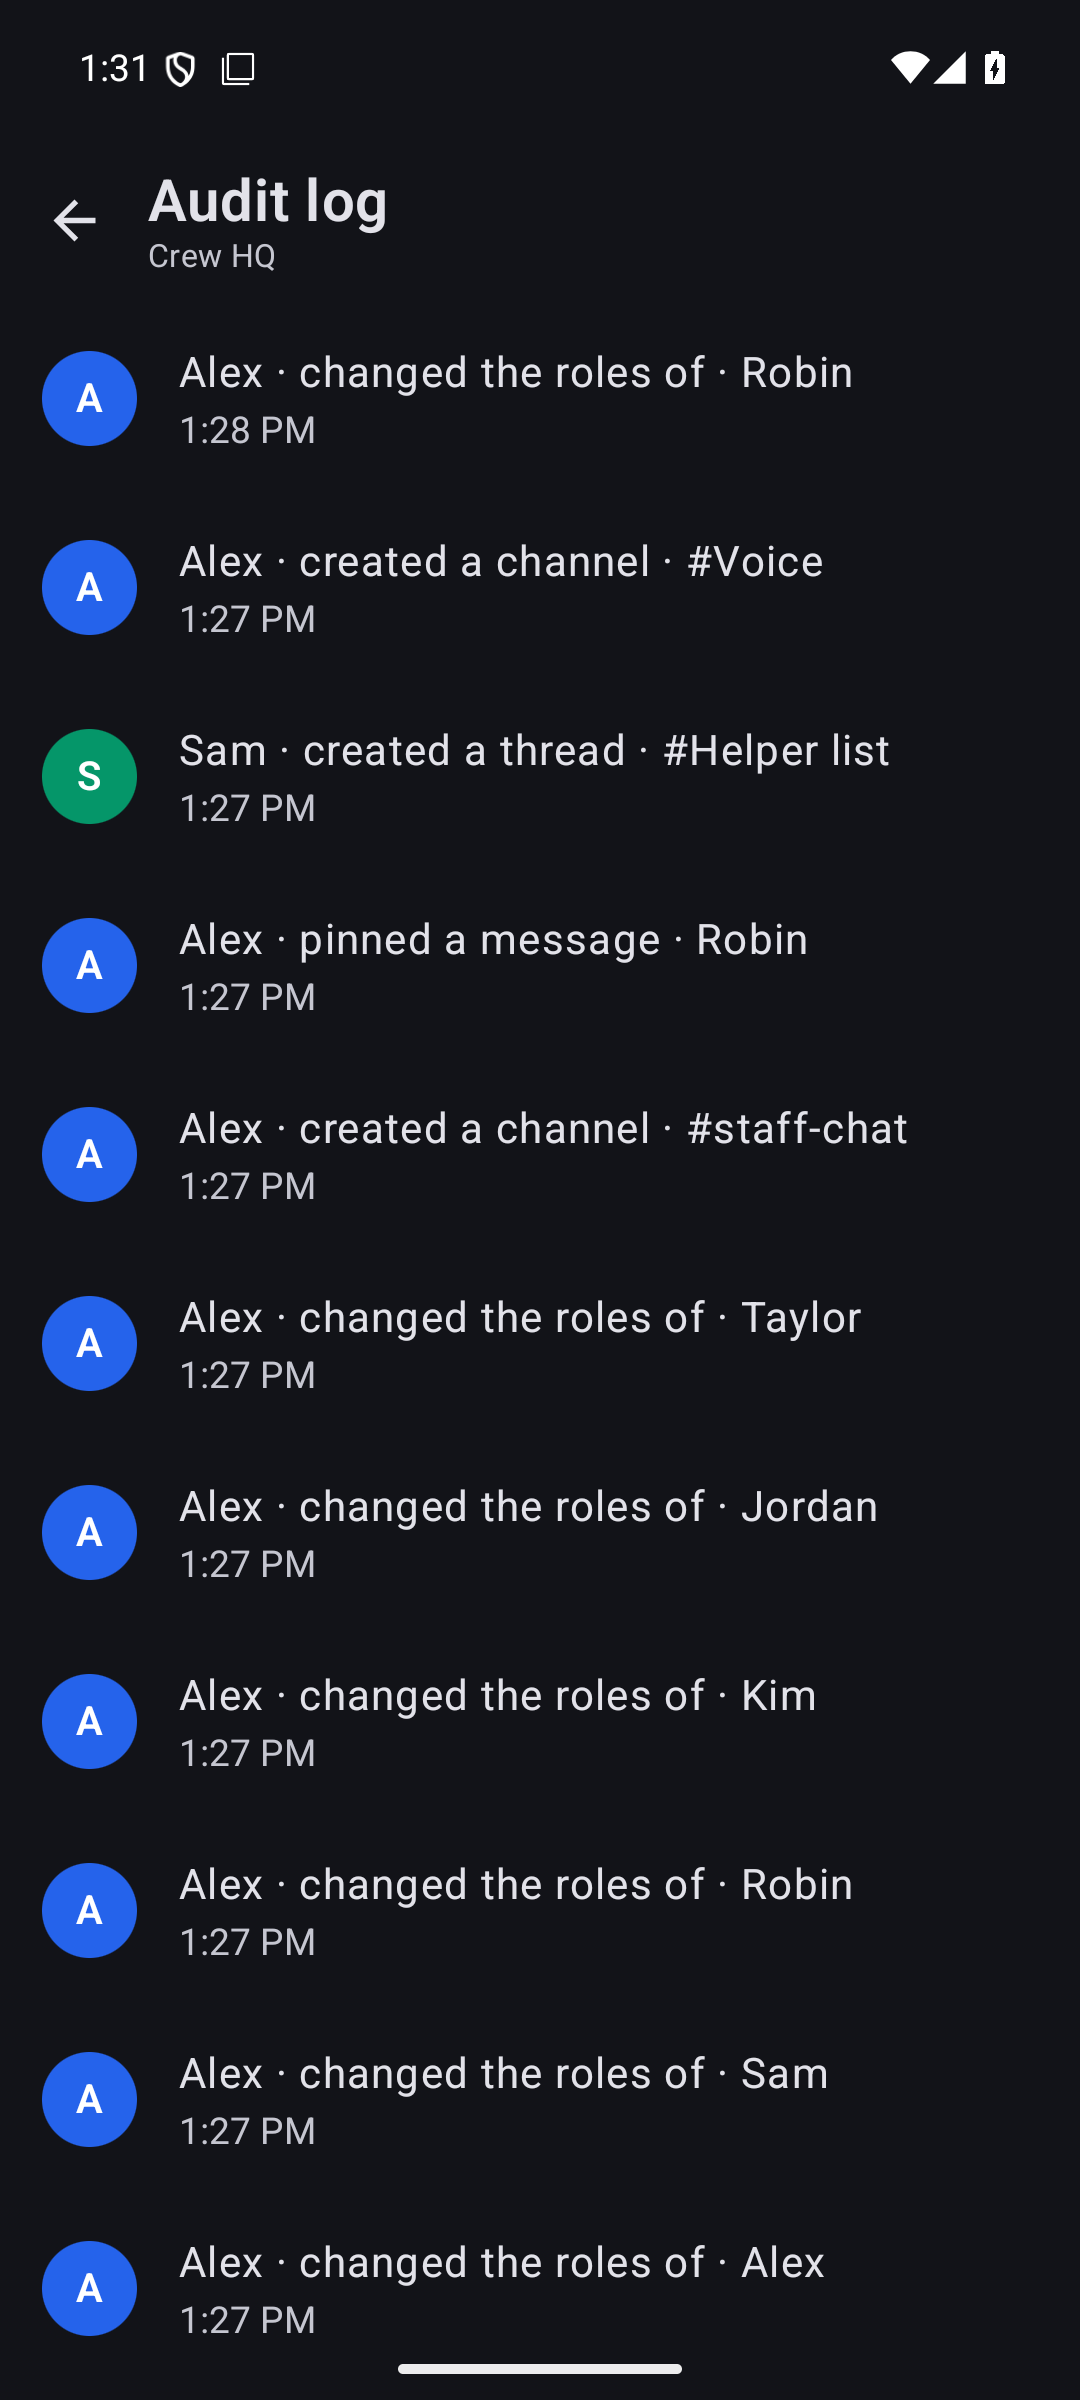
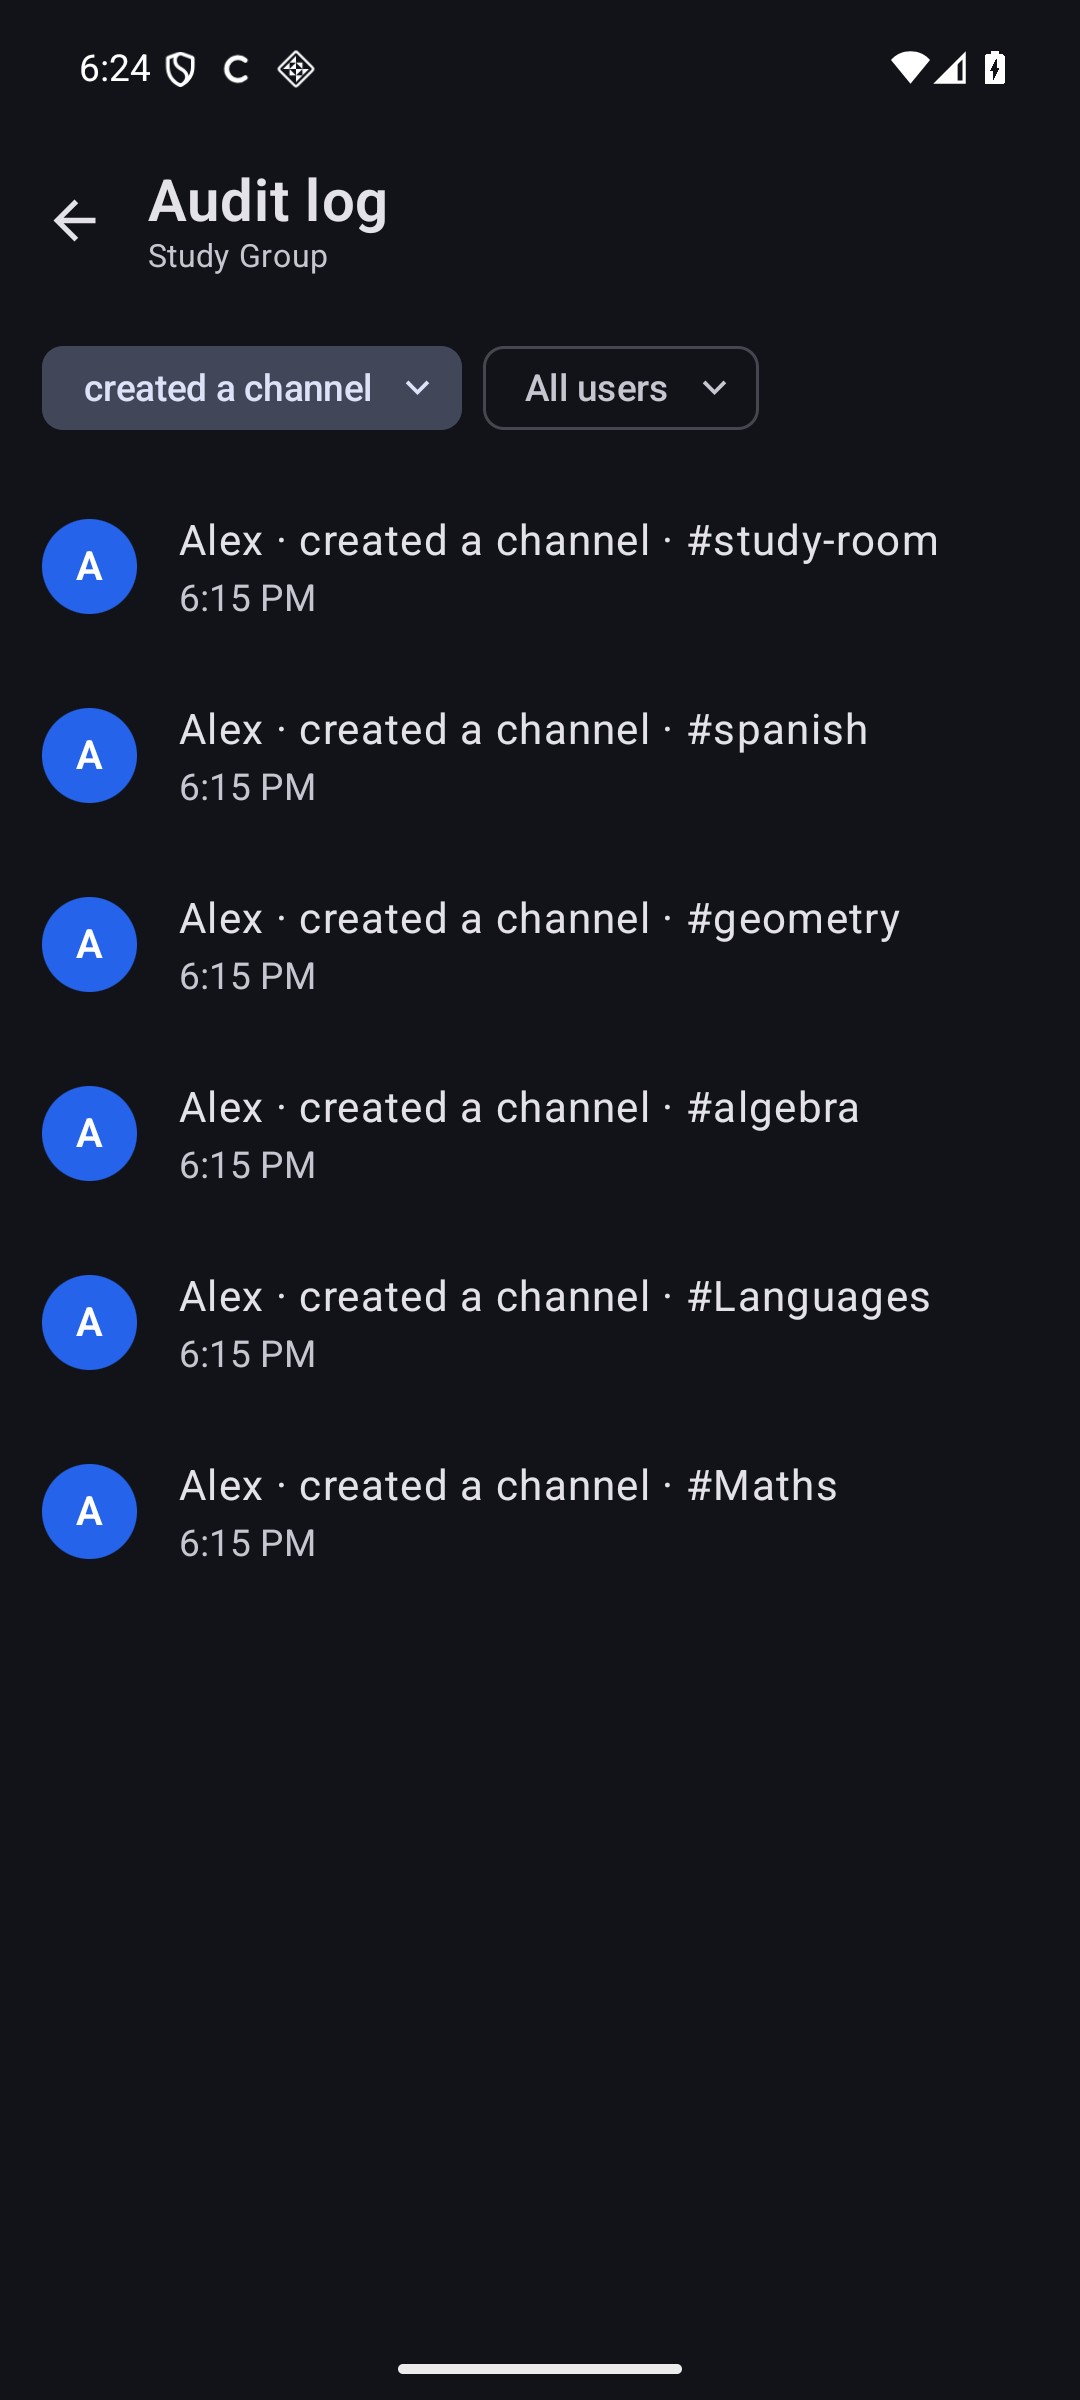
feat(android): 3.3.0 screenshots (search, channel notifications, emoji, channel drag, ban, audit filters); mute labels

diff --git a/android/app/src/main/java/io/github/mrciller/cillhub/ui/ChannelInfo.kt b/android/app/src/main/java/io/github/mrciller/cillhub/ui/ChannelInfo.kt
@@ -129,7 +129,7 @@ fun ChannelInfoScreen(channelId: String) {
     if (notify) ChannelNotifySheet(state, gid, ch) { notify = false }
 }
 
-private val MUTE_FOR = listOf(900L to R.string.mute_15m, 3600L to R.string.timeout_1h, 28800L to R.string.mute_8h, 86400L to R.string.timeout_1d, 0L to R.string.mute_forever)
+private val MUTE_FOR = listOf(900L to R.string.mute_15m, 3600L to R.string.mute_1h, 28800L to R.string.mute_8h, 86400L to R.string.mute_1d, 0L to R.string.mute_forever)
 
 /** This channel's override in the user guild settings: notify level (all / mentions / nothing / server default) and mute for a while. */
 @OptIn(ExperimentalMaterial3Api::class)
